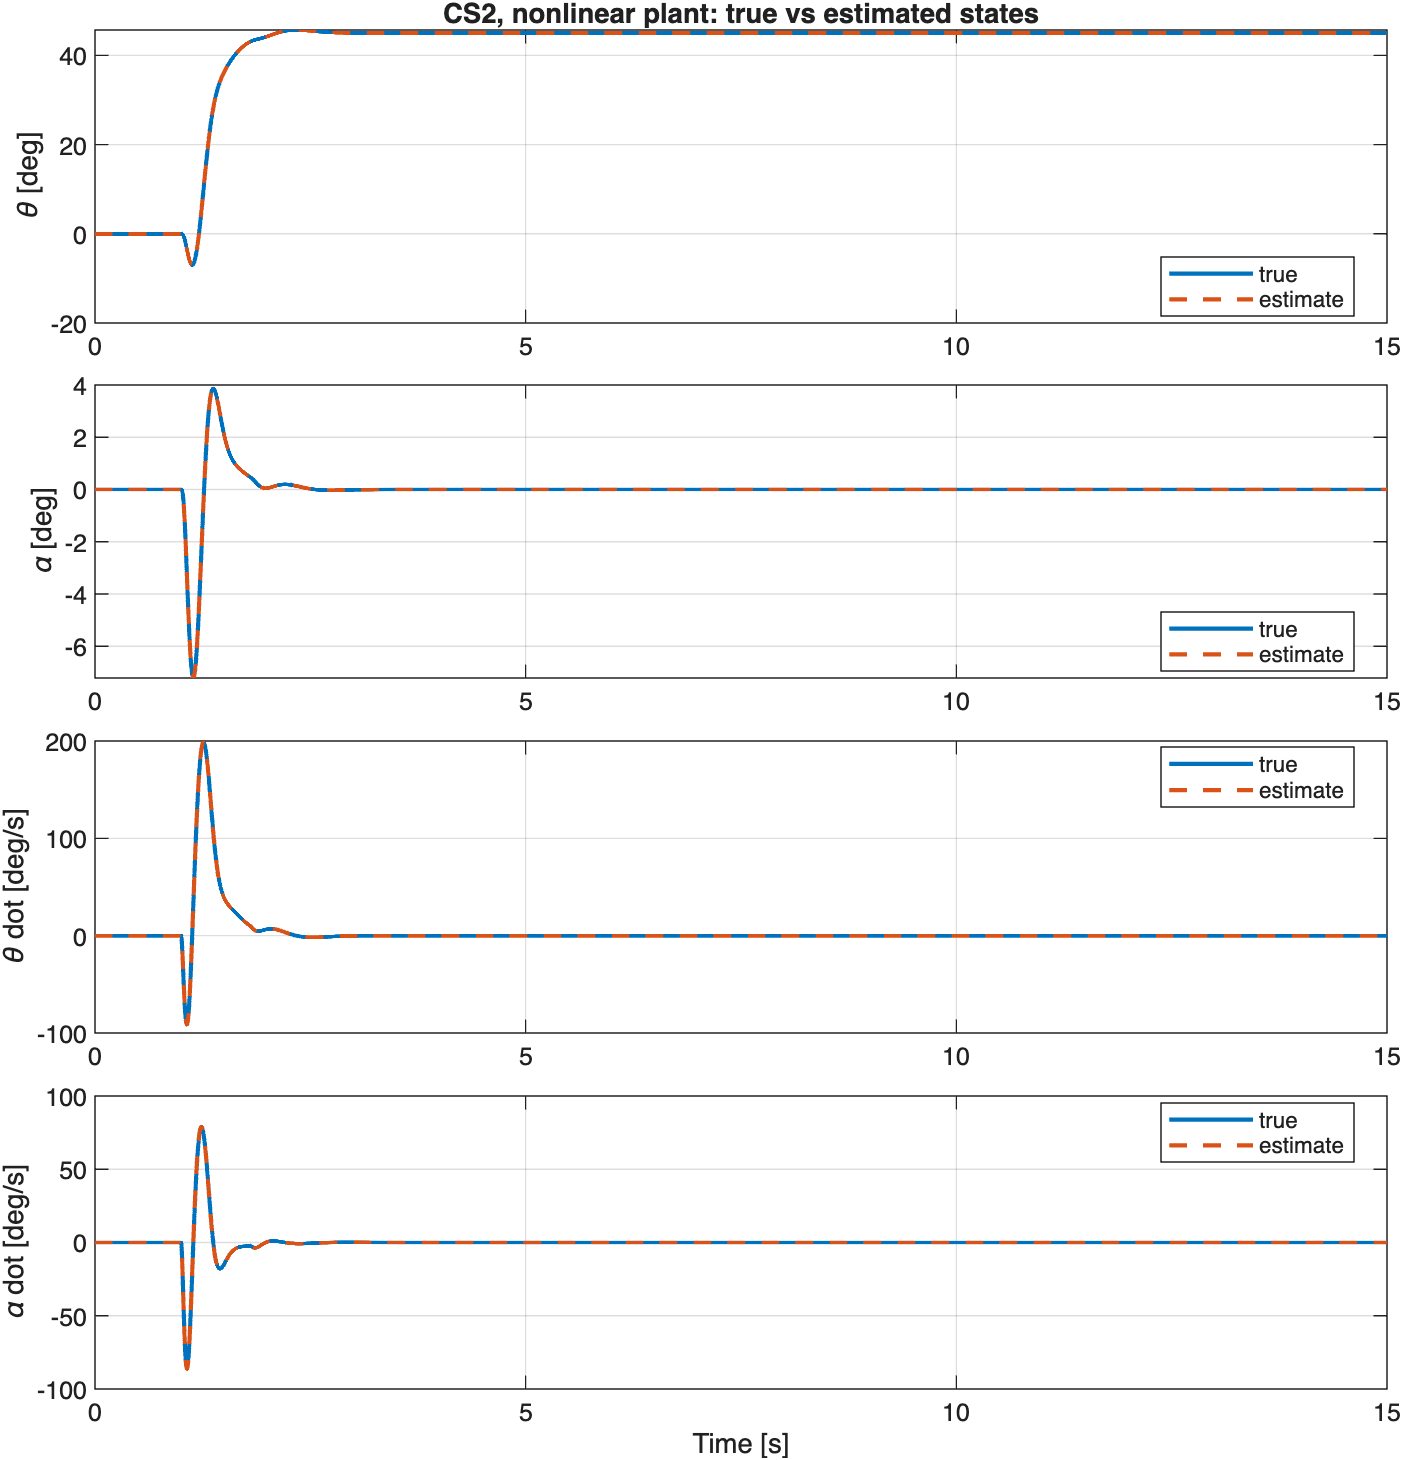
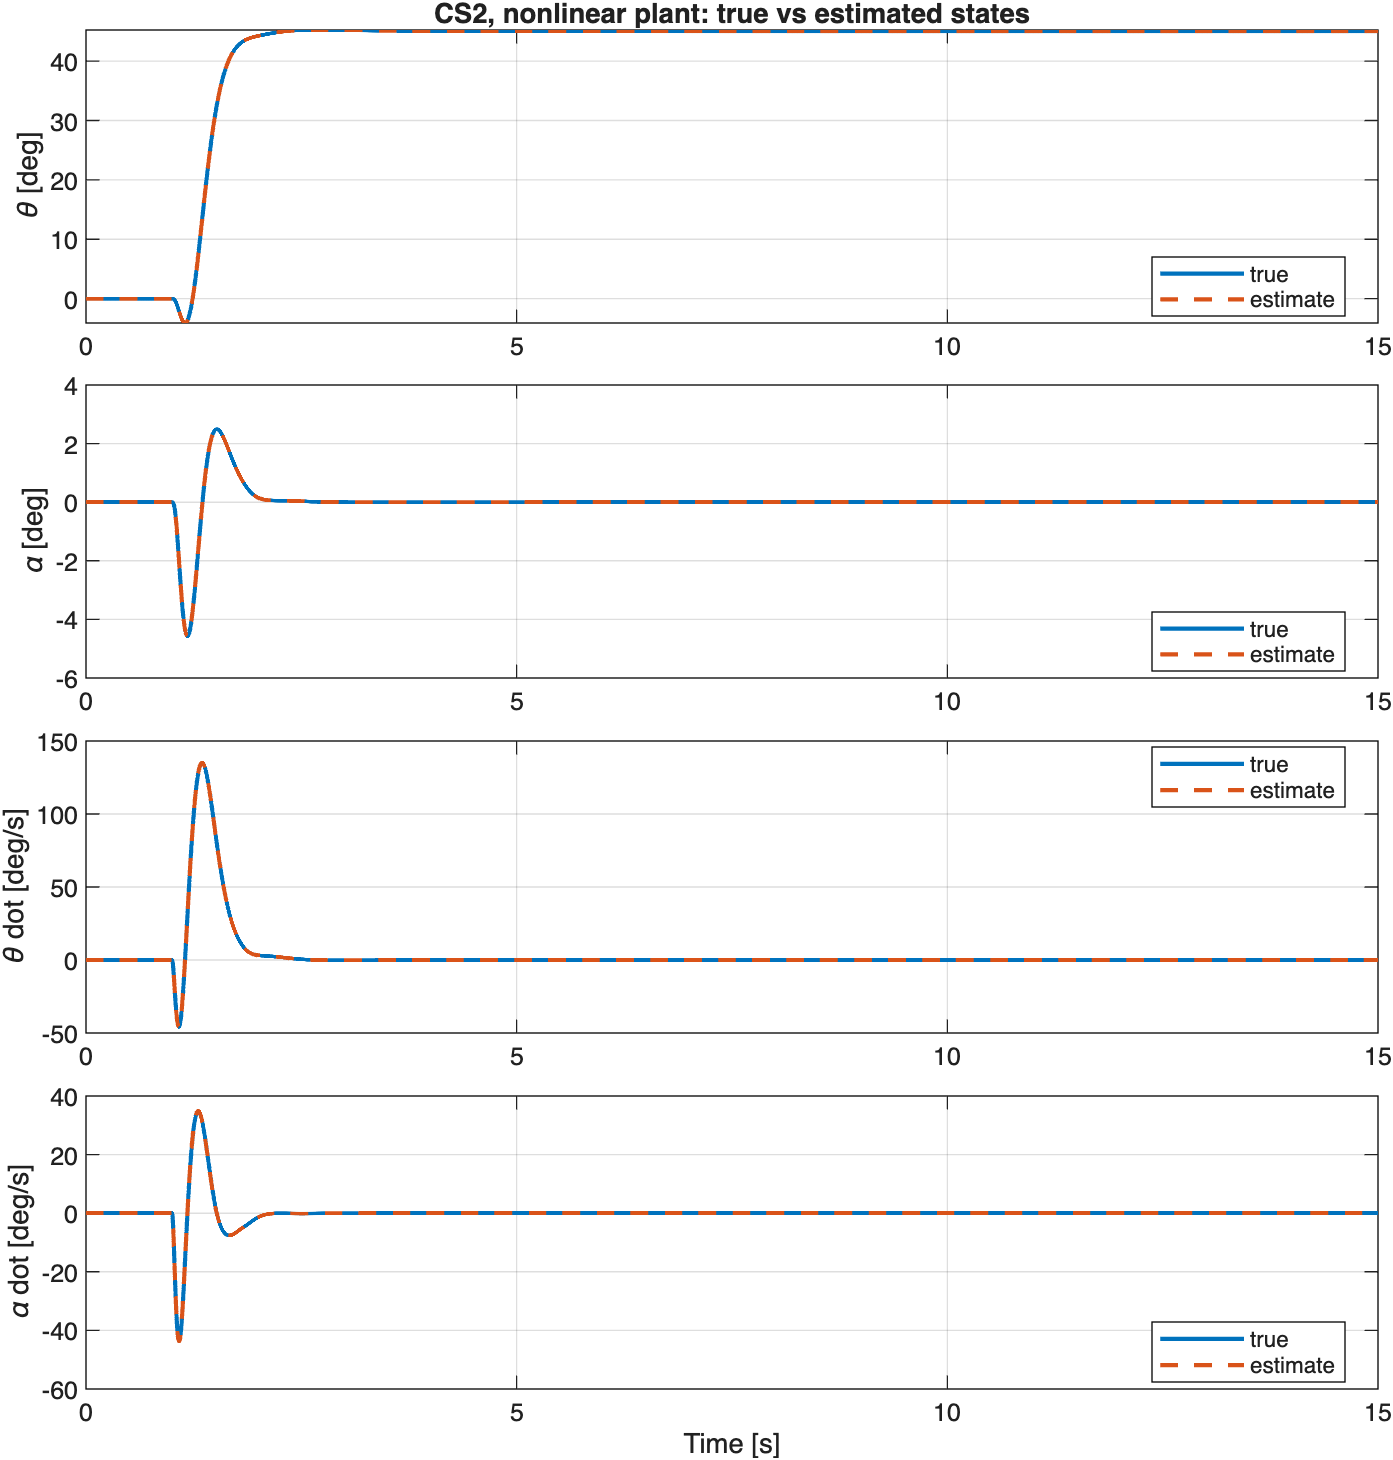
CS2: slow the integrator pole to -1 for bump recovery
The integrator pole at -8 roughly tripled the arm gain, so small bumps
saturated the voltage and the pendulum fell. At -1 the gains stay close to
plain SFC: in a nonlinear bump test with the real controller code, the
largest pendulum kick recovered rises from 119 to 197 deg/s (motor 0.8x).
45 deg step: 0.6 % OS, 0.95 s settling, peak 1.6 V. Gains only; ctrl_CS2,
hw_CS2 and the CS1A folder are unchanged.

diff --git a/Controllers/CS2_SFC_observer/params_CS2.m b/Controllers/CS2_SFC_observer/params_CS2.m
@@ -20,8 +20,12 @@ ps = [-zeta*wn + 1i*wn*sqrt(1-zeta^2), -zeta*wn - 1i*wn*sqrt(1-zeta^2), ...
 %% Integral action: removes the arm offset that friction leaves
 % Augmented state x_i(k+1) = x_i(k) + ts*(theta(k) - r), so with
 % K = [F, Fi] the control law is u = -F (x - x*) - Fi x_i.
+% The integrator pole is kept slow: at -8 it roughly tripled the arm gain, so a
+% small bump saturated the voltage and knocked the pendulum over. At -1 the gains
+% stay close to plain SFC (about 65 % bigger bumps recovered in simulation),
+% and friction offsets are removed over about a second instead.
 use_integral = true;                % false: plain SFC (Fi = 0)
-p_int    = -8;                      % integrator pole [1/s]
+p_int    = -1;                      % integrator pole [1/s]
 int_band = 2*pi/180;                % integrate only within +/-2 deg of the reference [rad]
 ref_tau  = 0.2;                     % reference filter time constant [s] (0 = off)
 

diff --git a/Controllers/CS2_SFC_observer/README.md b/Controllers/CS2_SFC_observer/README.md
@@ -3,9 +3,10 @@
 A discrete-time SFC with integral action and a Luenberger observer, designed from the
 discrete state-space model.
 
-**Status: rebuilt for the hardware, not yet tested on it.** For a 45° arm step, simulation
-gives 1.5 % overshoot and 0.98 s settling on both the linear and nonlinear plants, with the
-voltage peaking at 3.1 V. `hw_CS2.slx` compiles for the Teensy.
+**Status: balances on the QUBE; retuned to recover from bumps.** The first hardware version
+worked but fell over when bumped. For a 45° arm step, simulation gives 0.6 % overshoot and
+0.95 s settling on both the linear and nonlinear plants, with the voltage peaking at 1.6 V.
+`hw_CS2.slx` compiles for the Teensy. The bump retune hasn't been tested on the QUBE yet.
 
 ## Control structure
 
@@ -38,7 +39,7 @@ x̂(k+1)     = A x̂(k) + B u(k) + Lo (y(k) − C x̂(k))
 | | Poles [1/s] |
 |---|---|
 | SFC | −5.6 ± 5.7j (ωn = 8 rad/s, ζ = 0.7), −19.2, −25.6 |
-| Integrator | −8 |
+| Integrator | −1 |
 | Observer | −90, −95, −100, −105 (about 4× the fastest SFC pole) |
 | DP2, for reference | SFC −1.5 ± 2j, −6, −8; observer −40 to −55 |
 
@@ -46,15 +47,31 @@ x̂(k+1)     = A x̂(k) + B u(k) + Lo (y(k) − C x̂(k))
 stable while the real motor delivers at least 0.87× its modelled gain. Fitting the model to
 the CS1.A hardware runs suggests the effective gain is lower than that, probably because of
 friction at the small balancing voltages. The CS1.A design, which balances on the QUBE,
-tolerates 0.53×–10×, so CS2 now uses the same bandwidth: it's stable for 0.48×–4.8×.
+tolerates 0.53×–10×, so CS2 now uses the same bandwidth: it's stable for 0.45×–5.3×.
+
+**Why the integrator pole is slow.** The integrator pole was first at −8. That roughly
+tripled the arm gain, so a small bump drove the voltage to ±10 V and the pendulum fell. At
+−1 the gains stay close to plain SFC.
+
+A bump test simulates the nonlinear plant with the real `ctrl_CS2` code, quantised
+encoders, the voltage limit, a weaker motor and friction, and kicks the balanced pendulum.
+The largest pendulum kick recovered:
+
+| Motor strength | 0.6× | 0.8× | 1× |
+|---|---|---|---|
+| Integrator pole −8 (before) | 91°/s | 119°/s | 137°/s |
+| Integrator pole −1 (now) | 152°/s | 197°/s | 229°/s |
+
+The trade-off is that friction offsets are removed over about a second rather than a few
+hundred milliseconds. If bumps are still a problem, `wn = 7` recovers about 10 % more but
+leaves less margin for a weak motor (0.50× instead of 0.45×).
 
 **Simulated with real-world effects.** A discrete simulation adds quantised encoders
 (2048 counts per revolution), the ±10 V limit and stick–slip arm friction:
 
-- **No friction:** 1.7 % overshoot, 0.99 s settling.
-- **With friction:** neither plain SFC nor the integral version settles fully, because the
-  arm hunts around the target. The integral version roughly halves the remaining error:
-  1.2–2.3° compared with 1.8–4.5° without it.
+- **No friction:** 1.3 % overshoot, 0.93 s settling.
+- **With friction:** the arm hunts around the target rather than settling fully, with an
+  average error of about 1.7°. Plain SFC under the same conditions is worse, at about 1.8–4.5°.
 
 The friction model is a rough guess, so expect the real numbers to differ.
 
